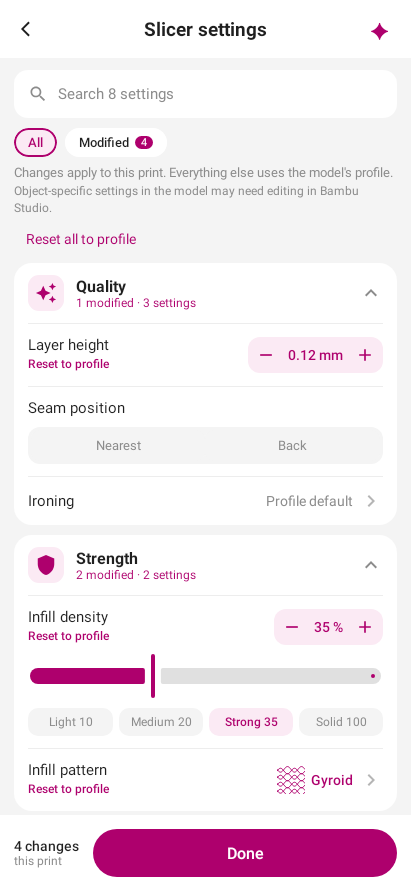
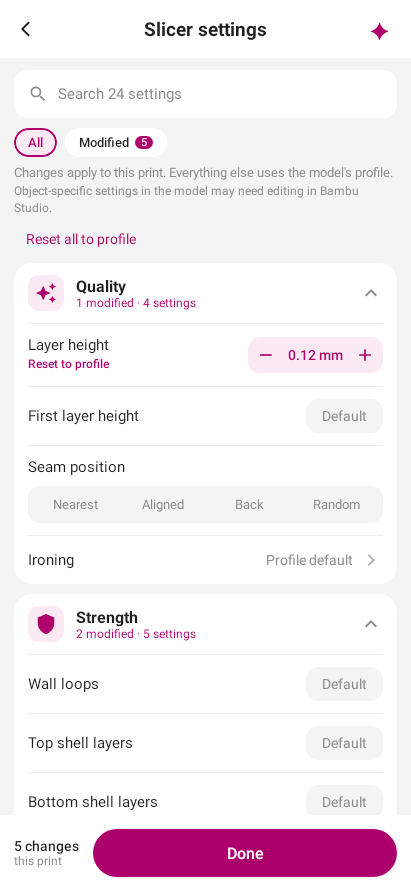
Show the real slicer catalog in the settings evidence screenshots

diff --git a/shared/src/androidUnitTest/kotlin/io/github/gccammelli/pandy/ScreenTest.kt b/shared/src/androidUnitTest/kotlin/io/github/gccammelli/pandy/ScreenTest.kt
@@ -1203,21 +1203,30 @@ class ScreenTest {
 
     @Test fun slicerSettingsEvidenceScreens() {
         val dir = System.getenv("PANDY_SLICER_UI_EVIDENCE") ?: return
+        val schema = System.getenv("PANDY_SLICER_SCHEMA")?.let { java.io.File(it).readText() } ?: richSchema
         fun shot(name: String) = compose.runOnIdle {
             val view = android.view.inspector.WindowInspector.getGlobalWindowViews().last()
             val bitmap = Bitmap.createBitmap(view.width, view.height, Bitmap.Config.ARGB_8888)
             view.draw(Canvas(bitmap))
             java.io.File(dir, "$name.png").outputStream().use { bitmap.compress(Bitmap.CompressFormat.PNG, 100, it) }
         }
-        showRich(mapOf("layer_height" to "0.12", "sparse_infill_density" to "35", "sparse_infill_pattern" to "gyroid", "brim_type" to "outer_only"))
+        val http = io.ktor.client.HttpClient(io.ktor.client.engine.mock.MockEngine { respond(schema) }).also { testHttpClients += it }
+        val saved = mapOf("layer_height" to "0.12", "sparse_infill_density" to "35", "sparse_infill_pattern" to "gyroid", "brim_type" to "outer_only", "outer_wall_speed" to "120")
+        compose.setContent { CompositionLocalProvider(LocalPlatform provides platform) { AppTheme {
+            AdvancedSlicerSettings(SlicerClient("slicer.invalid", null, http = http), saved, {}, { _, _ -> })
+        } } }
+        compose.waitUntil(5000) { compose.onAllNodesWithText("Reset all to profile").fetchSemanticsNodes().isNotEmpty() }
         shot("overview")
         compose.onNodeWithContentDescription("Collapse Quality").performClick()
         shot("strength")
-        compose.onNodeWithText("Gyroid").performClick()
+        compose.onAllNodesWithText("Gyroid").onFirst().performClick()
         compose.mainClock.advanceTimeBy(500)
         shot("pattern-picker")
         compose.onNodeWithContentDescription("Close").performClick()
-        compose.onNode(hasSetTextAction()).performTextReplacement("wall infill")
+        compose.onNodeWithText("Modified").performClick()
+        shot("modified")
+        compose.onNodeWithText("All").performClick()
+        compose.onNode(hasSetTextAction()).performTextReplacement("wall")
         shot("search")
     }
 
